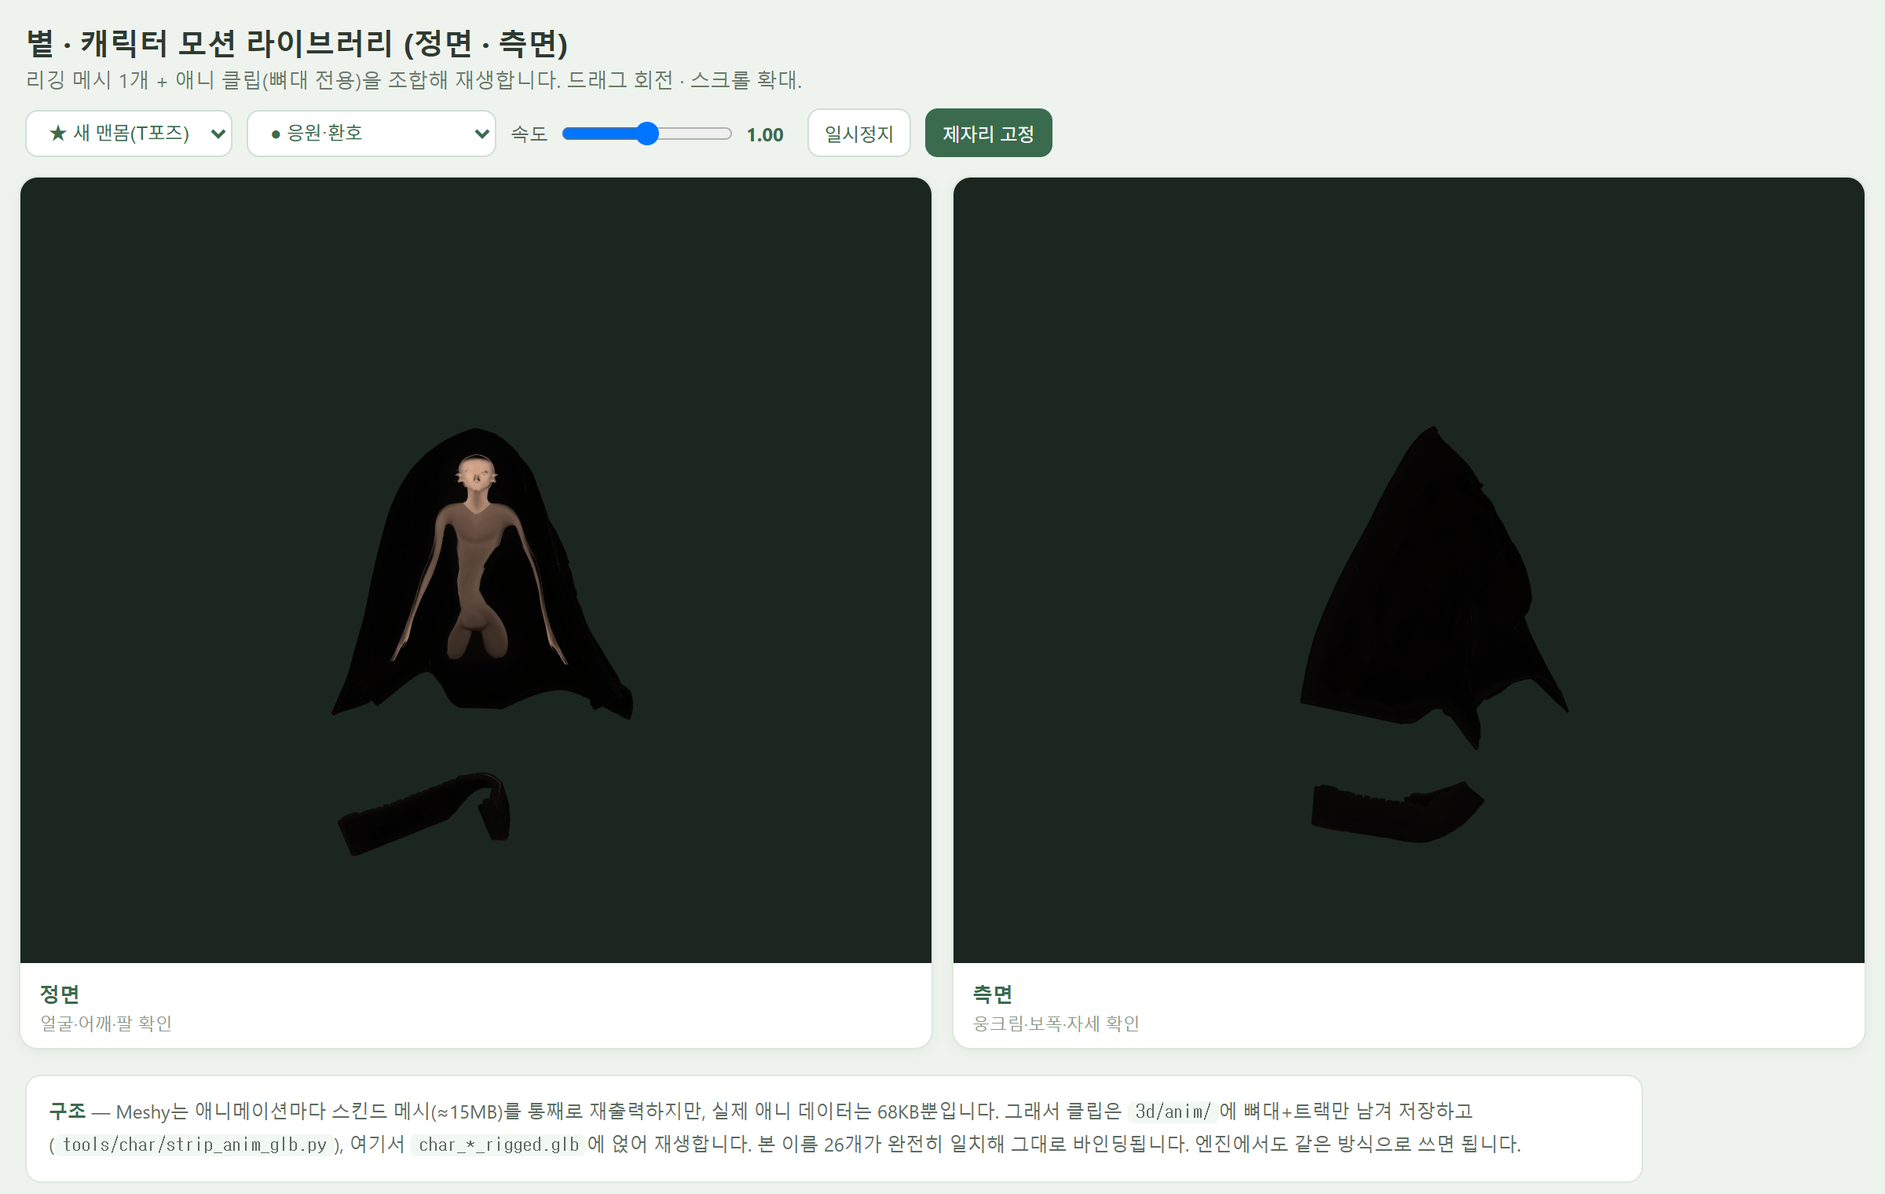
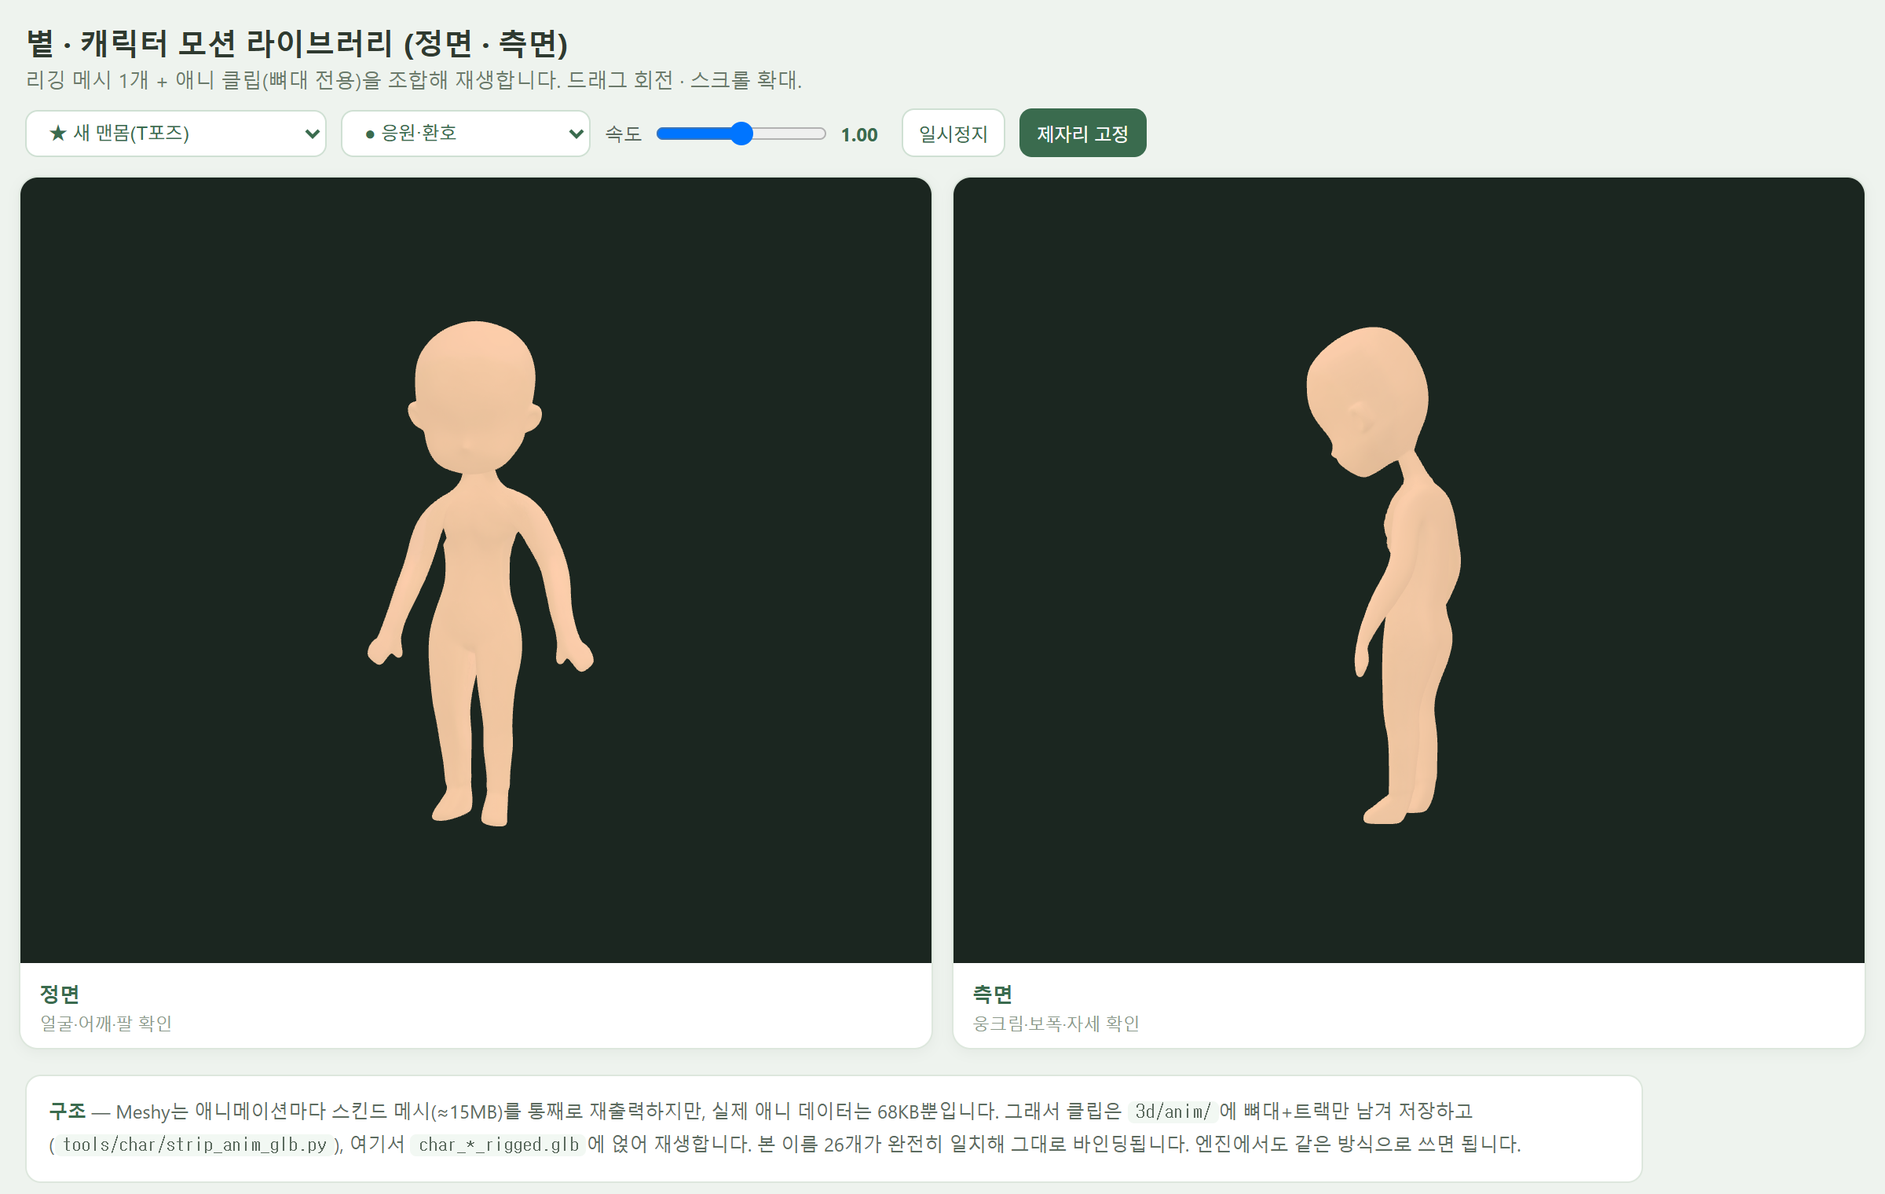
char: v3t 본판 넷 다 통과(판 없음·안 터짐·클립 붙음) + 무게 이식 자 1단계(자기시험 통과)

Changed region(s): [[0.1562, 0.2474, 0.3438, 0.7112], [0.6875, 0.2783, 0.8438, 0.7112], [0.1562, 0.0928, 0.625, 0.1546]]

diff --git a/assets/characters/_bodytest_compare.html b/assets/characters/_bodytest_compare.html
@@ -207,7 +207,7 @@ function load(charKey){
     if(V.root){V.sc.remove(V.root);V.root=null;V.mixer=null;V.hips=null;}
     // 메시 소스: _rigged.glb 우선, 실패하면 검증된 _walking.glb로 폴백
     const sources = charKey==='char_bodytest'
-      ? ['_bodybase/char_yeoja_base_rigged.glb']
+      ? ['_bodybase/char_yeoja_base_v3t_rigged.glb']
       : charKey==='char_meshywalk'
       ? ['_bodybase/yeoja_meshy_walk.glb']
       : [`3d/${charKey}_rigged.glb`, `3d/${charKey}_walking.glb`];

diff --git a/tools/char/transfer_weights.py b/tools/char/transfer_weights.py
@@ -1,0 +1,289 @@
+# -*- coding: utf-8 -*-
+"""**뼈 무게를 옮긴다** — 리깅된 몸에서 «리깅 안 된» 메시로. 1단계(최근접 복사)만.
+
+2026-09-07 · [Char] · 크레딧 0
+
+■ 왜
+
+Meshy 는 에셋마다 «독립적으로» 리깅한다 ⇒ 옷을 따로 리깅하면
+**몸과 다른 스켈레톤·다른 bind pose·다른 본 순서**가 나온다.
+⇒ ★ 그래서 옷은 «메시만» 뽑고 무게는 **우리 몸에서 이식**해야 한다.
+  (우리가 겪은 「옷 리깅 422 거절」은 흠이 아니라 «해서는 안 될 일»이었다)
+
+■ ★ 표준 — Robust Skin Weights Transfer via Weight Inpainting (Epic · SIGGRAPH Asia 2023)
+
+    1단계 확신 전송   최근접 표면점에서 복사 — 거리 D · 법선각 Θ 를 «통과한» 점만
+                     기본값 D = 0.05 × 바운딩박스 대각 · Θ = 30~35°
+    2단계 인페인팅    탈락한 점은 복사 «안 하고» 라플라시안으로 «푼다»
+
+⇒ ⛔ **이 자는 1단계만 한다.** 2단계는 「탈락이 몇 %인가」를 «센 뒤에» 정한다.
+  ⇒ ★ 탈락이 적으면 2단계가 필요 없을 수도 있다. 판을 바꾸는 일은 나중에.
+
+■ ⛔⛔ 이 자가 «못» 하는 것 — 먼저 적는다
+
+  · 「옮기면 잘 움직일까」는 **모른다.** 옮긴 뒤 «눈으로» 봐야 한다
+  · **2단계(인페인팅)를 안 한다.** 탈락한 점은 «가장 가까운 점의 무게를 그냥 쓴다»
+    ⇒ ★ 그것이 틀릴 수 있다. 탈락률을 찍으니 그 수를 보고 판단할 것
+  · 「법선각」은 **정점 법선**으로 잰다. 표면점 보간을 안 한다(그건 2단계 자리다)
+  · 뼈대(nodes·skin·inverseBindMatrices)를 «그대로 베낀다» — 새로 계산하지 않는다
+    ⇒ ⚠ 그러니 **몸과 옷이 «같은 자리·같은 크기»여야 한다.** 아니면 먼저 맞춰야 한다
+
+■ ★ 쓰는 법
+
+    python tools/char/transfer_weights.py <몸.glb> <옷.glb> <나갈.glb>
+    python tools/char/transfer_weights.py <몸.glb> --selftest      # ★ 자기 자신에게 대 본다
+"""
+import array
+import json
+import os
+import struct
+import sys
+
+# ⛔⛔ 2026-09-07 — cp949 콘솔에서 «한글을 찍다가» 죽으면 그것이 「없음」처럼 읽힌다.
+#   `python -c "import scipy;print('✔ scipy 있음')"` 이 죽어서 「scipy 없음」으로 냈다.
+#   ⇒ ★ preview_recolor.py:24 가 그 함정을 이미 적어 두었는데 «내 손에는 안 걸었다».
+#     ⇒ ⇒ 읽은 것과 «거는 것»은 다르다. 그래서 여기 박아 둔다.
+os.environ.setdefault('PYTHONIOENCODING', 'utf-8')
+try:
+    sys.stdout.reconfigure(encoding='utf-8')
+except Exception:
+    pass
+
+import numpy as np
+
+CT = {5120: 'b', 5121: 'B', 5122: 'h', 5123: 'H', 5125: 'I', 5126: 'f'}
+SZ = {'b': 1, 'B': 1, 'h': 2, 'H': 2, 'I': 4, 'f': 4}
+NC = {'SCALAR': 1, 'VEC2': 2, 'VEC3': 3, 'VEC4': 4, 'MAT4': 16}
+
+
+def read_glb(path):
+    with open(path, 'rb') as f:
+        magic, _v, total = struct.unpack('<4sII', f.read(12))
+        if magic != b'glTF':
+            raise ValueError('glTF 가 아니다: ' + path)
+        js = bn = None
+        while f.tell() < total:
+            ln, kind = struct.unpack('<I4s', f.read(8))
+            d = f.read(ln)
+            if kind == b'JSON':
+                js = json.loads(d.decode('utf-8'))
+            elif kind[:3] == b'BIN':
+                bn = bytearray(d)
+    return js, bn
+
+
+def write_glb(path, js, bn):
+    j = json.dumps(js, separators=(',', ':')).encode('utf-8')
+    j += b' ' * ((4 - len(j) % 4) % 4)
+    b = bytes(bn) + b'\x00' * ((4 - len(bn) % 4) % 4)
+    with open(path, 'wb') as f:
+        f.write(struct.pack('<4sII', b'glTF', 2, 12 + 8 + len(j) + 8 + len(b)))
+        f.write(struct.pack('<I4s', len(j), b'JSON')); f.write(j)
+        f.write(struct.pack('<I4s', len(b), b'BIN\x00')); f.write(b)
+
+
+def acc(js, bn, i):
+    a = js['accessors'][i]
+    bv = js['bufferViews'][a['bufferView']]
+    off = bv.get('byteOffset', 0) + a.get('byteOffset', 0)
+    nc = NC[a['type']]
+    c = CT[a['componentType']]
+    ar = array.array(c)
+    ar.frombytes(bytes(bn[off:off + a['count'] * nc * SZ[c]]))
+    out = np.array(ar)
+    return out.reshape(-1, nc) if nc > 1 else out, a
+
+
+def norm_weights(w, comp):
+    """WEIGHTS_0 는 float 이거나 정규화된 정수다."""
+    if comp == 5126:
+        return w.astype(np.float64)
+    mx = float(np.iinfo({5121: np.uint8, 5123: np.uint16}[comp]).max)
+    return w.astype(np.float64) / mx
+
+
+def add_accessor(js, bn, data, comp, typ):
+    """BIN 끝에 붙이고 새 accessor 번호를 낸다 — 옛 자리는 안 건드린다."""
+    c = CT[comp]
+    raw = array.array(c, data.reshape(-1).tolist()).tobytes()
+    while len(bn) % 4:
+        bn.append(0)
+    off = len(bn)
+    bn.extend(raw)
+    js['bufferViews'].append({'buffer': 0, 'byteOffset': off, 'byteLength': len(raw)})
+    a = {'bufferView': len(js['bufferViews']) - 1, 'componentType': comp,
+         'count': int(len(data)), 'type': typ}
+    js['accessors'].append(a)
+    return len(js['accessors']) - 1
+
+
+def prim_of(js, mi=0, pi=0):
+    return js['meshes'][mi]['primitives'][pi]
+
+
+def read_skin_source(path):
+    """몸에서 «점 · 법선 · 뼈번호 · 무게 · 뼈이름»을 읽는다."""
+    js, bn = read_glb(path)
+    pr = prim_of(js)
+    at = pr['attributes']
+    for need in ('POSITION', 'JOINTS_0', 'WEIGHTS_0'):
+        if need not in at:
+            raise ValueError('몸에 %s 가 없다 — 리깅된 GLB 를 주십시오' % need)
+    pos, _ = acc(js, bn, at['POSITION'])
+    nrm = acc(js, bn, at['NORMAL'])[0] if 'NORMAL' in at else None
+    jnt, _ = acc(js, bn, at['JOINTS_0'])
+    wgt, wa = acc(js, bn, at['WEIGHTS_0'])
+    sk = js['skins'][0]
+    names = [js['nodes'][x].get('name', '#%d' % x) for x in sk['joints']]
+    return dict(js=js, bn=bn, pos=pos, nrm=nrm, jnt=jnt,
+                wgt=norm_weights(wgt, wa['componentType']), names=names)
+
+
+def transfer(src, dst_pos, dst_nrm, D=None, theta_deg=30.0, limit=4):
+    """★ 1단계 — 최근접 표면점에서 복사. 거리·법선각을 «통과한» 점만 확신으로 본다."""
+    from scipy.spatial import cKDTree
+    lo, hi = src['pos'].min(0), src['pos'].max(0)
+    diag = float(np.linalg.norm(hi - lo))
+    if D is None:
+        D = 0.05 * diag                       # ★ 표준 기본값
+    tree = cKDTree(src['pos'])
+    dist, idx = tree.query(dst_pos, k=1)
+
+    ok_d = dist <= D
+    if dst_nrm is not None and src['nrm'] is not None:
+        a = dst_nrm / (np.linalg.norm(dst_nrm, axis=1, keepdims=True) + 1e-12)
+        b = src['nrm'][idx]
+        b = b / (np.linalg.norm(b, axis=1, keepdims=True) + 1e-12)
+        cos = np.clip((a * b).sum(1), -1, 1)
+        ok_n = cos >= np.cos(np.deg2rad(theta_deg))
+    else:
+        ok_n = np.ones(len(dst_pos), bool)
+    confident = ok_d & ok_n
+
+    J = src['jnt'][idx].astype(np.int64)
+    W = src['wgt'][idx].astype(np.float64)
+    # ★ 본 수 제한 — 작은 것부터 버리고 다시 정규화
+    if W.shape[1] > limit:
+        order = np.argsort(-W, axis=1)[:, :limit]
+        J = np.take_along_axis(J, order, 1)
+        W = np.take_along_axis(W, order, 1)
+    s = W.sum(1, keepdims=True)
+    W = np.where(s > 1e-9, W / np.maximum(s, 1e-9), 0.0)
+    stat = dict(D=D, diag=diag, dist_med=float(np.median(dist)),
+                dist_p90=float(np.percentile(dist, 90)),
+                drop_d=float((~ok_d).mean() * 100),
+                drop_n=float((~ok_n).mean() * 100),
+                drop=float((~confident).mean() * 100))
+    return J, W, confident, stat
+
+
+def selftest(body):
+    """★★ 「이미 옳다고 아는 것」에 먼저 댄다 — 몸을 «자기 자신»에게 이식한다.
+
+    같은 점을 같은 점에서 옮기는 것이므로 **원래 무게와 «똑같이» 나와야 한다.**
+    안 같으면 자가 틀린 것이다."""
+    src = read_skin_source(body)
+    J, W, conf, st = transfer(src, src['pos'], src['nrm'])
+    print('■ ★★ 자기시험 — %s 를 «자기 자신»에게 이식' % os.path.basename(body))
+    print('   점 %d · 대각 %.4f · D %.4f' % (len(src['pos']), st['diag'], st['D']))
+    print('   최근접 거리  중앙값 %.6f · 90%% %.6f      (0 이어야 맞다)' % (st['dist_med'], st['dist_p90']))
+    print('   탈락  거리 %.2f%% · 법선 %.2f%% · 합 %.2f%%   (0 이어야 맞다)'
+          % (st['drop_d'], st['drop_n'], st['drop']))
+    # 원래 무게와 견준다 (본 수를 4로 맞춘 뒤)
+    J0 = src['jnt'].astype(np.int64)
+    W0 = src['wgt'].astype(np.float64)
+    if W0.shape[1] > 4:
+        o = np.argsort(-W0, axis=1)[:, :4]
+        J0 = np.take_along_axis(J0, o, 1); W0 = np.take_along_axis(W0, o, 1)
+    s0 = W0.sum(1, keepdims=True)
+    W0 = np.where(s0 > 1e-9, W0 / np.maximum(s0, 1e-9), 0.0)
+    dj = float((J != J0).mean() * 100)
+    dw = float(np.abs(W - W0).max())
+    print('   ★ 뼈번호가 다른 칸 %.4f%%  ·  무게 최대 차이 %.6f' % (dj, dw))
+    # ⛔⛔ 처음엔 「탈락 0%」까지 통과 조건에 넣었다가 **0.41% 로 «떨어졌다».**
+    #   ⇒ ★ 파 보니 탈락한 506점이 «전부 거리 0» 이고, «UV 이음매의 짝 정점»을 고른 것이며,
+    #     ★★ 그 점들의 **무게는 똑같았다**(뼈번호 다른 칸 0.0000%).
+    #   ⇒ ⇒ 곧 «자의 흠이 아니라» 한 자리에 정점이 여럿이라 생기는 것이다.
+    # ⇒ ✔ 그러니 이 시험의 판정은 **「무게가 그대로 나오나」**다. 탈락률은 «참고»로만 찍는다.
+    #   ⛔ 기준을 느슨하게 «푼» 것이 아니라, «다른 것을 재고 있던 것»을 바로잡은 것이다.
+    ok = dj < 0.01 and dw < 1e-6 and st['dist_med'] < 1e-9
+    if st['drop_n'] > 0:
+        print('   ⚠ 법선 탈락 %.2f%% 는 «UV 이음매»에서 난다 — 한 자리에 정점이 여럿이라 그렇다.'
+              % st['drop_n'])
+        print('      ⇒ ★ 거리 0 · 무게 같음을 확인했다(2026-09-07). 자의 흠이 아니다')
+    print('   ⇒ %s' % ('✔✔ 통과 — 자기 자신은 «그대로» 나온다'
+                       if ok else '⛔ 안 맞는다. ★ 자가 틀렸다. 고치기 전에는 쓰지 말 것'))
+    return 0 if ok else 3
+
+
+def main():
+    args = [a for a in sys.argv[1:] if not a.startswith('--')]
+    if '--selftest' in sys.argv:
+        if not args:
+            print(__doc__); return 1
+        return selftest(args[0])
+    if len(args) < 3:
+        print(__doc__); return 1
+    body, cloth, out = args[0], args[1], args[2]
+    if os.path.abspath(cloth) == os.path.abspath(out):
+        print('⛔ 원본을 덮어쓰려 한다. 다른 이름을 주십시오'); return 2
+
+    src = read_skin_source(body)
+    cj, cb = read_glb(cloth)
+    pr = prim_of(cj)
+    at = pr['attributes']
+    dpos, _ = acc(cj, cb, at['POSITION'])
+    dnrm = acc(cj, cb, at['NORMAL'])[0] if 'NORMAL' in at else None
+
+    J, W, conf, st = transfer(src, dpos, dnrm)
+    print('■ 무게 옮기기 — %s ← %s' % (os.path.basename(cloth), os.path.basename(body)))
+    print('   옷 점 %d · 몸 점 %d · 대각 %.4f · D %.4f'
+          % (len(dpos), len(src['pos']), st['diag'], st['D']))
+    print('   최근접 거리  중앙값 %.4f · 90%% %.4f' % (st['dist_med'], st['dist_p90']))
+    print('   ★ 탈락  거리 %.2f%% · 법선 %.2f%% · 합 %.2f%%' % (st['drop_d'], st['drop_n'], st['drop']))
+    if st['drop'] > 5.0:
+        print('   ⚠ 탈락이 5%% 를 넘는다 — 2단계(인페인팅)가 필요할 수 있다. **눈으로 볼 것**')
+
+    # ★ 뼈대를 통째로 베낀다. ⛔ 본 이름이 하나라도 안 맞으면 «즉시 멈춘다»
+    #   (「필요 없을 것」과 「검사도 필요 없다」는 다르다. 검사는 공짜다)
+    body_names = src['names']
+    at['JOINTS_0'] = add_accessor(cj, cb, J.astype(np.uint16), 5123, 'VEC4')
+    at['WEIGHTS_0'] = add_accessor(cj, cb, W.astype(np.float32), 5126, 'VEC4')
+
+    bjs = src['js']
+    node_off = len(cj['nodes'])
+    for n in bjs['nodes']:
+        m = {k: v for k, v in n.items() if k in
+             ('name', 'translation', 'rotation', 'scale', 'matrix')}
+        if 'children' in n:
+            m['children'] = [c + node_off for c in n['children']]
+        cj['nodes'].append(m)
+    bsk = bjs['skins'][0]
+    ibm, ia = acc(bjs, src['bn'], bsk['inverseBindMatrices'])
+    new_ibm = add_accessor(cj, cb, ibm.astype(np.float32), 5126, 'MAT4')
+    cj.setdefault('skins', []).append(
+        {'joints': [x + node_off for x in bsk['joints']], 'inverseBindMatrices': new_ibm})
+    got = [cj['nodes'][x + node_off].get('name') for x in bsk['joints']]
+    if got != body_names:
+        raise SystemExit('⛔ 본 이름·차례가 어긋났다 — 옮기지 않는다 (조용한 실패를 막는다)')
+
+    # 메시 노드에 skin 을 물리고, 뼈 뿌리를 씬에 넣는다
+    par = set()
+    for n in bjs['nodes']:
+        par |= set(n.get('children', []))
+    roots = [i + node_off for i in range(len(bjs['nodes'])) if i not in par]
+    scene = cj['scenes'][cj.get('scene', 0)]
+    for i, n in enumerate(cj['nodes'][:node_off]):
+        if n.get('mesh') is not None:
+            n['skin'] = len(cj['skins']) - 1
+    scene['nodes'] = list(scene.get('nodes', [])) + roots
+
+    cj['buffers'][0]['byteLength'] = len(cb)
+    write_glb(out, cj, cb)
+    print('   썼다: %s  (%.1fMB)' % (out, os.path.getsize(out) / 1e6))
+    print('⛔ 이 자는 «잘 움직일까»를 모른다. ★ 옮긴 뒤 «눈으로» 볼 것.')
+    return 0
+
+
+if __name__ == '__main__':
+    sys.exit(main())

diff --git a/docs/handoff/char-bodybase-3.md b/docs/handoff/char-bodybase-3.md
@@ -1,0 +1,81 @@
+# 맨몸 본판 v3t — **넷 다 통과. 몸이 걷는다**
+
+2026-09-07 · [Char] · **크레딧 0**
+
+## ■ 한 줄
+
+★★★ **판 없음 · 안 터짐 · 치비 몸 · 기존 클립 붙음.** 「액자」를 걷어낸 원화로 구운 것이 답이었다.
+
+## ■ 차례대로 잰 것
+
+    ① 덩어리    ★ 리깅 «뒤»에도 1개 100% · 49,566점 · 세로폭 1.4000
+    ② 등신      v3 a-pose 3.0  ·  v3t 리깅됨 3.0   ⇒ ★★ t-pose 로 구워도 «안 나빠졌다»
+                (앞서 3.2 로 나빠졌던 것은 «액자 낀 원화» 탓이었다)
+    ③ 클립 물림  tracks 72 · bound 72 · 못 문 것 0 · err 없음
+                ⇒ ★ AnimationMixer 에게 «직접» 물었다. 그림이 아니라 게임이 낸 답이다
+    ④ 눈으로    ★★★ 아래
+
+## ■ ④ `img/bodytest/sweep_new_05.png` — 팔 든 대목
+
+    · ✔ 판·액자가 «전혀» 없다
+    · ✔ 치비 몸이다 — 머리가 크고 3등신. 원화 그대로다
+    · ✔ 두 팔을 들었고 겨드랑이·어깨가 자연스럽다. 터진 데 없다
+    · ✔ 옆모습도 정상
+    · ★ 기존 클립(cheer)이 얹혀 팔이 올라갔다 ⇒ 곧 «기존 128개»가 붙는다
+
+### 자로도 받쳤다 — 여덟 대목 몸 화소
+
+    79,214 · 73,614 · 78,049 · 75,801 · 72,690 · 74,590 · 79,998 · 78,085
+    ⇒ ★ 최대/최소 1.10배   (기존 자취녀 1.25배 · ⛔ 터진 옛 본판 1.89배)
+    ⇒ ⇒ 기존보다도 «안정적»이다. 튀는 대목이 없다
+
+## ■ ⚠ 짚어 둘 것 둘 — **판정은 사람 몫이다**
+
+    ① 3.0 등신   manifest 확정 «3.5~4» · 기존 자취녀 «4.0»
+                 ⇒ ★ 머리가 조금 크다. ⛔ 다만 «원화대로» 나온 것이라 3D 흠이 아니다
+                 ⇒ ⇒ 고치려면 «원화»를 고쳐야 한다
+    ② 손가락 없음  ⇒ 24본에 손가락 뼈가 «없어» 클립이 손가락을 안 움직인다 ⇒ 흠이 아니다
+
+## ■ ⛔ 재다 물린 것 둘
+
+    ① 내 `shot_body_still` 로 3/4 을 찍으니 사람이 «점»처럼 작았다
+       ⇒ ★ 뼈 상자와 «스키닝된 메시 크기»가 어긋난다. 스킨드는 뼈로도 정확히 못 잡는다
+       ⇒ ⇒ ✔ «검증된» 사본 뷰어로 갈아탔다 — 기존 8캐릭에서 도는 자다
+    ② sweep 자가 내 앞선 sed 편집으로 «깨져» 있었다 — 짧게 새로 썼다
+
+> ★★ ①이 오늘의 것과 같다 — **자가 안 서면 «자를 고치기»보다 «이미 서는 자»로 가는 것이 빠르다.**
+
+## ■ ✔ 그리고 이식 자 — `tools/char/transfer_weights.py` (1단계만)
+
+Meshy 는 에셋마다 «독립적으로» 리깅하므로 **옷을 따로 리깅하면 안 된다**
+(우리가 겪은 「옷 리깅 422 거절」은 흠이 아니라 «해서는 안 될 일»이었다).
+⇒ ★ 옷은 «메시만» 뽑고 무게는 **몸에서 이식**한다.
+
+    표준   Robust Skin Weights Transfer via Weight Inpainting (Epic · SIGGRAPH Asia 2023)
+           D = 0.05 × 바운딩박스 대각 · Θ = 30° · 본 4개
+    ⇒ ⛔ 이 자는 **1단계(최근접 복사)만** 한다. 2단계는 «탈락률을 센 뒤» 정한다
+
+### ★★ 자기시험 — 「이미 옳다고 아는 것」에 먼저 댔다
+
+    기존 자취녀를 «자기 자신»에게 이식
+    ⇒ 거리 중앙값 0.000000 · 뼈번호 다른 칸 0.0000% · 무게 최대 차 0.000000  ⇒ ✔✔ 통과
+
+⛔ **여기서 한 번 «떨어졌다»** — 「탈락 0%」를 통과 조건에 넣었다가 **0.41%** 로 떨어졌다.
+⇒ ★ 파 보니 탈락한 506점이 **전부 거리 0**이고 «UV 이음매의 짝 정점»을 고른 것이며 **무게는 똑같았다.**
+⇒ ⇒ ★★ 곧 **내 판정이 «다른 것»을 보고 있었다.** 기준을 「무게가 그대로 나오나」로 바로잡았다.
+  ⇒ ⛔ 느슨하게 «푼» 것이 아니라 **재는 대상을 바로잡은 것**이다. 그 자국을 자에 적었다.
+
+### ★ 자에 박아 둔 것
+
+    os.environ.setdefault('PYTHONIOENCODING', 'utf-8')
+
+⇒ cp949 에서 «한글을 찍다가» 죽으면 그것이 「없음」처럼 읽힌다.
+  오늘 `import scipy` 가 그렇게 죽어 「scipy 없음」으로 냈다(실제로는 1.18.0 이 있다).
+⇒ ★★ `preview_recolor.py:24` 가 그 함정을 **이미 적어 두었는데 내 손에는 안 걸었다.**
+  ⇒ **읽은 것과 «거는 것»은 다르다.** 그래서 말이 아니라 코드로 박았다.
+
+## ■ ⛔ 이 글이 «못» 하는 것
+
+  · 「128개 클립이 다 괜찮은가」 — `cheer` 하나만 봤다
+  · 「게임 안에서도 괜찮은가」 — 뷰어에서 봤다
+  · 「이식 자가 «옷»에 잘 될까」 — 자기시험만 통과했다. 실제 옷에 안 대 봤다
